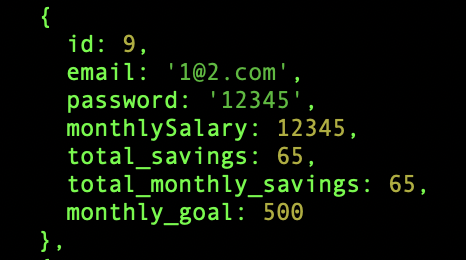
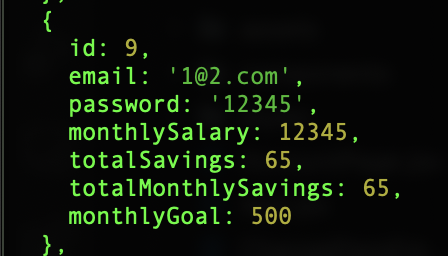
updated db row named

diff --git a/server/qdb.js b/server/qdb.js
@@ -14,7 +14,7 @@ app.use(cors({
 }));
 
 app.use(session({
-  secret: 'supersecretkey', // Use a secure env variable in production
+  secret: 'supersecretkey',
   resave: false,
   saveUninitialized: false,
   cookie: {
@@ -26,18 +26,18 @@ app.use(session({
 // DB Connection
 const db = new sqlite3.Database('./database.db', sqlite3.OPEN_READWRITE | sqlite3.OPEN_CREATE, (err) => {
   if (err) {
-    console.error("❌ Database connection error:", err.message);
+    console.error("Database connection error:", err.message);
   } else {
-    console.log("✅ Connected to the SQLite database.");
+    console.log("Connected to the SQLite3 database.");
     // Create transactions table if it doesn't exist
     db.run(`CREATE TABLE IF NOT EXISTS transactions (
-      id INTEGER PRIMARY KEY AUTOINCREMENT,
-      user_id INTEGER NOT NULL,
+      transactionId INTEGER PRIMARY KEY AUTOINCREMENT,
+      userId INTEGER NOT NULL,
       amount REAL NOT NULL,
       description TEXT,
       category TEXT,
       date TEXT DEFAULT CURRENT_TIMESTAMP,
-      FOREIGN KEY (user_id) REFERENCES users(id)
+      FOREIGN KEY (userId) REFERENCES users(id)
     )`);
   }
 });
@@ -144,7 +144,7 @@ app.post("/transactions", (req, res) => {
   const query = `
     SELECT t.* 
     FROM transactions t
-    JOIN users u ON t.user_id = u.id
+    JOIN users u ON t.userId = u.id
     WHERE u.email = ?
     ORDER BY t.date DESC
   `;
@@ -161,14 +161,14 @@ app.post("/add-transaction", (req, res) => {
     return res.status(400).json({ error: "All fields are required." });
   }
 
-  // First get the user_id from email
+  // First get the userId from email
   db.get("SELECT id FROM users WHERE email = ?", [email], (err, user) => {
     if (err) return res.status(500).json({ error: "Database error." });
     if (!user) return res.status(404).json({ error: "User not found." });
 
     // Then insert the transaction
     const insertQuery = `
-      INSERT INTO transactions (user_id, amount, description, category)
+      INSERT INTO transactions (userId, amount, description, category)
       VALUES (?, ?, ?, ?)
     `;
 
@@ -235,9 +235,9 @@ app.post('/get-savings', (req, res) => {
     }
     res.json({
       monthlySalary: row.monthlySalary,
-      monthly_goal: row.monthly_goal,
-      total_monthly_savings: row.total_monthly_savings,
-      total_savings: row.total_savings
+      monthly_goal: row.monthlyGoal,
+      total_monthly_savings: row.totalMonthlySavings,
+      total_savings: row.totalSavings
     });
   });
 });
@@ -246,7 +246,7 @@ app.post('/get-savings', (req, res) => {
 app.post('/update-savings', (req, res) => {
   const { email, field, value } = req.body;
   
-  const fields = ['monthlySalary', 'monthly_goal', 'total_monthly_savings', 'total_savings'];
+  const fields = ['monthlySalary', 'monthlyGoal', 'totalMonthlySavings', 'totalSavings'];
   
   if (!fields.includes(field)) {
     return res.status(400).json({ error: 'Invalid field' });

diff --git a/client/src/SpendingsPage.jsx b/client/src/SpendingsPage.jsx
@@ -59,7 +59,7 @@ function SpendingsPage() {
       const date = new Date(t.date);
       const year = date.getFullYear();
       const month = String(date.getMonth() + 1).padStart(2, '0');
-      const key = `${month}-${year}`; // e.g., "04-2025"
+      const key = `${month}-${year}`; 
   
       if (!monthlyTotals[key]) {
         monthlyTotals[key] = 0;
@@ -69,7 +69,6 @@ function SpendingsPage() {
   
     return Object.entries(monthlyTotals)
       .sort(([a], [b]) => {
-        // Convert "MM-YYYY" back to a Date for proper sorting
         const [monthA, yearA] = a.split('-').map(Number);
         const [monthB, yearB] = b.split('-').map(Number);
         return new Date(yearA, monthA - 1) - new Date(yearB, monthB - 1);
@@ -223,7 +222,7 @@ function SpendingsPage() {
             <tbody>
               {sortedTransactions.map(transaction => (
                 <tr key={transaction.id}>
-                  <td>{transaction.id}</td>
+                  <td>{transaction.transactionId}</td>
                   <td>{new Date(transaction.date).toLocaleDateString()}</td>
                   <td>{transaction.description}</td>
                   <td>{transaction.category}</td>

diff --git a/README.md b/README.md
@@ -27,59 +27,74 @@ This Financial tracker is a web based application built with React and Vite that
 
 The app is designed as follows...
 
-APP
-Header
-Router
-HomePage
-AccountPage
-SavingsPage
-SpendingsPage
-SettingsPage
-LearnPage
-SavingTopic
-InvestingTopic
-BugdetingTopic
-AuthPopup (Login/Signup)
-CurrentUser
-Footer
+    APP
+
+      Header
+
+      Router
+
+        HomePage
+
+        AccountPage
+
+        SavingsPage
+
+        SpendingsPage
+
+        SettingsPage
+
+        LearnPage
+
+          SavingTopic
+
+          InvestingTopic
+
+          BugdetingTopic
+
+    AuthPopup (Login/Signup)
+
+    CurrentUser
+
+    Footer
 
 Some of the key modules are as follows...
 
 ### App.jsx
 
-1. root component
+1. Root component
 2. Initializes routes
-3. contains global layout and navigation
-4. hosts login/singup state
+3. Contains global layout and navigation
+4. Hosts login/singup state
 
 ### UserContent.jsx
 
 1. React context provider
-2. shares current user state globally
+2. Shares current user state globally
 
 ### AuthPopup.jsx
 
 1. Manages login and singup forms
-2. sends credentials to backend via fetch
+2. Sends credentials to backend via fetch
 
 ### SavingsPage.jsx
 
 1. Allows user to input and save monthly salary
-2. interacts with /get-salary and /set-salary endpoints
+2. Interacts with /get-salary and /set-salary endpoints
 
 ### SpendingsPage.jsx
 
 1. Lets users log and view categorized expenses
-2. fetches transaction list from backend
+2. Fetches transaction list from backend
 
 ### LearnPage.jsx
 
-1. Contains three educational modules: Saving, budgeting, investing.
+1. Contains three educational modules: Saving, budgeting, investing
 2. User nested routes for topic content
 
 ### AccountPage.jsx
 
 1. Displays Current user and logout option
+2. Has buttons to change email and password
 
 ### Diagrams you might want to use
 
@@ -87,6 +102,10 @@ Some of the key modules are as follows...
 - **UML Class Diagram**: for depicting code structure
 - **UML State Diagram**: for depicting states of your software
 - **ERD Diagram**: for depicting the tables in a database
+
+### ERD Diagram
+
+![ERD Diagram](images/)
 
 You can use any other diagram that you find helpful for describing your software. You are expected to use diagrams and clearly describe what is depicted in your diagrams.
 
@@ -150,7 +169,7 @@ Give screenshots of your running project and briefly describe what is in the scr
 
 ### Transaction Table
 
-![Transaction Table](images/transanctionTable.png)
+![Transaction Table](images/transactionTable.png)
 
 ## Status
 
